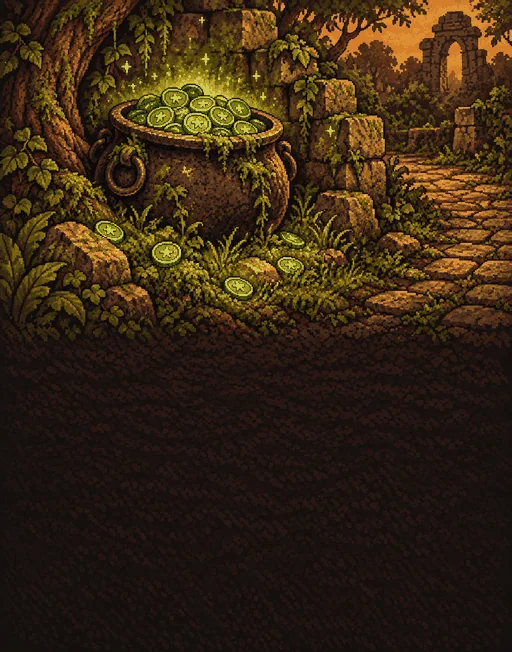
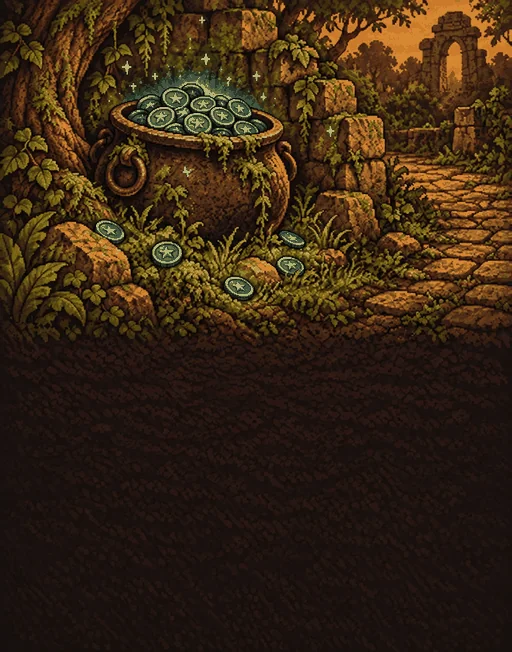
Refine daily visit sprites and match jade coin artwork

diff --git a/src/art_thumbs.js b/src/art_thumbs.js
@@ -87,7 +87,7 @@ const ART_THUMBS = {
[8 lines of base64/hex data omitted]
@@ -183,7 +183,7 @@ const ART_TONES = {
   trap_free: '#a4581d',
   trap_jaw: '#915122',
   visit_bike: '#6c4b30',
-  visit_gold: '#573d18',
+  visit_gold: '#543a19',
   visit_wagon: '#6c4f33',
   wizard_cold: '#4f3a5a',
   wizard_dragon: '#4d3552',
@@ -618,9 +618,9 @@ const ART_CUTS = {
[1 lines of base64/hex data omitted]
   ],
   visit_gold: [
[6 lines of base64/hex data omitted]
   ],
   visit_wagon: [
[1 lines of base64/hex data omitted]

diff --git a/src/render.js b/src/render.js
@@ -4270,12 +4270,10 @@ Render.objectAppearance = function (scene, houseRoles) {
   // generated props, a touch bigger than the crate they stand in for.
   const SMALL_POI_SCALE = 1.3;
   // The broken WAGON an old-trade-road bus stop wears (loot.js chestLook): the
-  // 128×96 frame's art is 88 px wide (x 20..108) and ends 2 px above the frame
-  // bottom, so 0.55 draws it ~1.5 cells wide, and WAGON_DY_PX drops the
-  // foot-anchored frame so the art's bottom row sits 1 px above the POI cell's
-  // bottom edge (half a cell, less that pixel, plus the 2 blank rows scaled).
-  const WAGON_SCALE = 0.55;
-  const WAGON_DY_PX = CELL_PX * 0.5 - 1 + 2 * WAGON_SCALE;
+  // compact 32×32 frame fits within a 2×2-cell footprint at the usual prop
+  // scale. Its one blank bottom row seats the wheels above the anchor edge.
+  const WAGON_SCALE = 1.6;
+  const WAGON_DY_PX = CELL_PX * 0.5 - 1 + WAGON_SCALE;
   // Render-spec callbacks receive the world object, while the object walk
   // carries the role on its frame item. This map bridges those APIs without
   // resolving the role again; Houses.displayRole owns the verdict.
@@ -4512,13 +4510,12 @@ Render.objectAppearance = function (scene, houseRoles) {
               // Pots of gold (ATMs) render the procedural
               // 'potofgold' canvas texture (textures.js makePotOfGoldTexture),
               // which is single-frame — so leave `frame` undefined for them,
-              // exactly like the themed-house sprites. The pot art is already
-              // gold, so no tint is applied. Produce stands pick the market_stand
+              // exactly like the themed-house sprites. The pot art already carries the jade coin palette, so no tint is applied. Produce stands pick the market_stand
               // awning frame for their product family (see produceStandFor).
               // A macro stall (loot.js macroFor) is one 80×80 frame per kind.
               frame: (o) => { const L = chestLook(o);
                               return L.coin ? undefined : (L.stand ? L.stand.frame : 0); },
-              // THE WAGON (a bus stop on an old trade road): 128×96 art, drawn at
+              // THE WAGON (a bus stop on an old trade road): 32×32 art, drawn at
               // WAGON_SCALE (~1.5 cells wide) and foot-anchored like the stall —
               // a structure, not a chest, so it is not seated; its wheels sit
               // on the POI cell's bottom edge and the body rises north over it.
@@ -4709,8 +4706,8 @@ Render.objectAppearance = function (scene, houseRoles) {
     infoboard: { key: 'signpost', frame: 0, origin: [0.5, 0.5], scale: 1.6, seat: true, shadow: true },
     gatepost:  { key: 'gatepost', frame: 0, origin: [0.5, 0.5], scale: 1.6, seat: true, shadow: true },
     // INFLUENCE ZONE PROPS (src/zones.js). Headstones may raise a ghost or
-    // pay a one-off find. Grove shrines use two stable, cell-seated appearances;
-    // both give the same daily gift and light (Lighting.KINDS.shrine).
+    // pay a one-off find. Plain grove shrines use the cell-seated votive,
+    // giving the daily gift and light (Lighting.KINDS.shrine).
     headstone:    { key: 'headstone',    frame: 0, origin: [0.5, 0.5], scale: 1.6, seat: true, shadow: true },
     grove_shrine: {
       key: o => SpriteLayout.groveShrineArt(o).key,

diff --git a/src/assets.js b/src/assets.js
@@ -147,17 +147,16 @@ const ASSETS = {
   // assets/Objects/Generated/README.md — placeholders): the pilgrim's
   // waystone, the barricade, and the burned row's tar pit and iron stakes
   // (one look each). wagon: the broken wagon a bandit-road bus stop wears
-  // (loot.js chestLook), one 128×96 frame.
+  // (loot.js chestLook), one compact 32×32 frame.
   waystone:       { kind: 'spritesheet', path: 'assets/Objects/Approved/waystone.png', frameWidth: 16, frameHeight: 16 },
   giant_mushroom: { kind: 'spritesheet', path: 'assets/Objects/Wilderness/Fantasy Mushroom.png', frameWidth: 32, frameHeight: 48 },
   barricade:      { kind: 'spritesheet', path: 'assets/Objects/Approved/barricade.png', frameWidth: 16, frameHeight: 16 },
   tar:            { kind: 'spritesheet', path: 'assets/Objects/Approved/tar.png', frameWidth: 16, frameHeight: 16 },
   stakes:         { kind: 'spritesheet', path: 'assets/Objects/Approved/stakes.png', frameWidth: 16, frameHeight: 16 },
-  wagon:          { kind: 'spritesheet', path: 'assets/Objects/Approved/wagon.png', frameWidth: 128, frameHeight: 96 },
-  // INFLUENCE ZONES (src/zones.js): churchyard headstone, two grove shrine
-  // appearances, and the flint nodule (items.js CROP_SPRITE.flint).
+  wagon:          { kind: 'spritesheet', path: 'assets/Objects/DailyVisits/wagon.png', frameWidth: 32, frameHeight: 32 },
+  // INFLUENCE ZONES (src/zones.js): churchyard headstone, grove votive,
+  // and the flint nodule (items.js CROP_SPRITE.flint).
   headstone:      { kind: 'spritesheet', path: 'assets/Objects/Rustic/pillar_c.png', frameWidth: 16, frameHeight: 16 },
-  grove_shrine:   { kind: 'spritesheet', path: 'assets/Objects/Landmarks/shrine-figure.png', frameWidth: 48, frameHeight: 48 },
   grove_votive:   { kind: 'spritesheet', path: 'assets/Objects/Approved/grove_votive.png', frameWidth: 16, frameHeight: 16 },
   flint:          { kind: 'spritesheet', path: 'assets/Objects/Approved/flint.png', frameWidth: 16, frameHeight: 16 },
   // SHRINE KINDS (src/shrines.js SHRINE_KINDS `frame`) — ten 16×24 generated
@@ -314,7 +313,7 @@ const ASSETS = {
   approved_clipped_hedge: {"kind": "spritesheet", "path": "assets/Objects/Approved/approved_clipped_hedge.png", "frameWidth": 16, "frameHeight": 16},
   approved_mushroom_cluster: {"kind": "spritesheet", "path": "assets/Objects/Approved/approved_mushroom_cluster.png", "frameWidth": 16, "frameHeight": 16},
   approved_charred_stakes: {"kind": "spritesheet", "path": "assets/Objects/Approved/approved_charred_stakes.png", "frameWidth": 16, "frameHeight": 16},
-  potofgold: {"kind": "image", "path": "assets/Objects/Approved/potofgold.png"},
+  potofgold: {"kind": "image", "path": "assets/Objects/DailyVisits/potofgold.png"},
   // END approved map-art states and contexts
 };
 

diff --git a/tools/gen_story_art.js b/tools/gen_story_art.js
@@ -121,7 +121,7 @@ const PIECES = {
   shrine_grove: scene("A small ancient moss-covered stone sanctuary beneath mature forest trees, with a weathered carved stone votive figure and a humble wrapped gift at its feet. Soft green sacred light, ferns and fallen leaves, fifty years of wild regrowth. Peaceful and respectful, no demons or horns."),
   visit_wagon: scene("A medieval hired guard in worn steel armour and a closed helmet concealing the entire face stands beside a weathered covered wooden wagon and a warm lantern. The guard rests a hand on a sheathed sword, ready to accompany a traveller. Wild grass, ruined medieval buildings, intact old trade road. No player, no visible faces."),
   visit_bike: scene("A saddled chestnut horse waits at a weathered courier's hitching post beside an intact cobbled trade road, small blue courier pennant and warm lantern, ruined medieval buildings and wild vegetation behind. No rider or people, no bicycle. A faint blue magical gleam suggests swift borrowed travel."),
-  visit_gold: scene("An old black iron pot filled with jade-green coins bearing small star marks, in a mossy nook beside an intact cobbled path. A handful of green star coins glimmers in the surrounding grass. The pot emits warm green-gold magical light. Absolutely no yellow or gold-colored coins despite the traditional pot-of-gold name."),
+  visit_gold: scene("An old black iron pot filled with muted cool teal-jade metal coins bearing embossed five-point stars, matching assets/Icons/coin.png exactly, never lime or yellow-green, in a mossy nook beside an intact cobbled path. A handful of green star coins glimmers in the surrounding grass. The coins give a restrained pale cool teal glimmer. Absolutely no yellow or gold-colored coins despite the traditional pot-of-gold name."),
 
   trap_jaw:
     scene(

diff --git a/index.html b/index.html
@@ -2687,7 +2687,7 @@
   <script src="src/shrines.js?v=5f2eca06"></script>
   <script src="src/zone_coverage.js?v=9f3ade7f"></script>
   <script src="src/zone_dressing.js?v=4f7cadec"></script>
-  <script src="src/sprite_layout.js?v=056e6ee4"></script>
+  <script src="src/sprite_layout.js?v=b61268cf"></script>
   <script src="src/placed_floor.js?v=d6c42e37"></script>
   <script src="src/home.js?v=e3fcba80"></script>
   <script src="src/coords.js?v=74ae36ba"></script>
@@ -2729,15 +2729,15 @@
   <script src="src/interact.js?v=f4be0d7c"></script>
   <script src="src/play_tips.js?v=2ef96f59"></script>
   <script src="src/lighting.js?v=d19f023c"></script>
-  <script src="src/render.js?v=4b6a81de"></script>
+  <script src="src/render.js?v=226703e0"></script>
   <script src="src/multiplayer.js?v=04fb3ba8"></script>
   <script src="src/road_overlay.js?v=990bf881"></script>
   <script src="src/building_overlay.js?v=18003bd2"></script>
-  <script src="src/assets.js?v=1123821d"></script>
+  <script src="src/assets.js?v=81fe352f"></script>
   <script src="src/sandbox.js?v=22f902e4"></script>
   <script src="src/testtools.js?v=e112a59e"></script>
   <script src="src/geo.js?v=0a205c42"></script>
-  <script src="src/art_thumbs.js?v=bdeb2a6f"></script>
+  <script src="src/art_thumbs.js?v=a8210cf6"></script>
   <script src="src/modal_shell.js?v=d6f9fe01"></script>
   <script src="src/scene_geo.js?v=96439ff3"></script>
   <script src="src/npc.js?v=5a25f4f1"></script>

diff --git a/src/sprite_layout.js b/src/sprite_layout.js
@@ -77,7 +77,6 @@
     'stakes:0': { fw: 16, fh: 16, minX: 4, minY: 0, maxX: 12, maxY: 16 },
     'tar:0': { fw: 16, fh: 16, minX: 0, minY: 6, maxX: 16, maxY: 16 },
     'headstone:0': { fw: 16, fh: 16, minX: 3, minY: 0, maxX: 14, maxY: 16 },
-    'grove_shrine:0': { fw: 48, fh: 48, minX: 12, minY: 1, maxX: 37, maxY: 47 },
     'grove_votive:0': { fw: 16, fh: 16, minX: 1, minY: 0, maxX: 15, maxY: 16 },
     'vista_scope:0': { fw: 16, fh: 24, minX: 0, minY: 0, maxX: 15, maxY: 24 },
     'shrines:0': { fw: 16, fh: 24, minX: 2, minY: 0, maxX: 14, maxY: 24 },
@@ -104,7 +103,6 @@
 
   // Cosmetic only: each POI keeps its appearance across reloads and save overlays.
   const GROVE_SHRINE_ART = [
-    { key: 'grove_shrine', frame: 0, scale: 0.7, name: 'Stone figure' },
     { key: 'grove_votive', frame: 0, scale: 1.6, name: 'Stone votive' },
   ];
   // One centered shrine object, reserving a 3×3-cell footprint.

diff --git a/sw.js b/sw.js
@@ -9,7 +9,7 @@
 //      so they're safe to cache forever. Strategy: cache-first with network
 //      fallback. This makes a visited region playable offline.
 
-const SHELL_VERSION = 'shell-ce147c3a';
+const SHELL_VERSION = 'shell-cbf20463';
 const TILE_CACHE    = 'tiles-v1';
 // How old a cached tile may get before it is refreshed IN THE BACKGROUND. It
 // is never an expiry: a stale tile is still served, and a failed refresh keeps

diff --git a/test/node/grove_shrine_art.test.js b/test/node/grove_shrine_art.test.js
@@ -8,5 +8,6 @@ test('grove shrine appearance is stable across save overlays and coordinate fram
     assert.truthy(SpriteLayout.ART_BOUNDS[`${art.key}:${art.frame}`]);
   }
   assert.eq(seen.size, SpriteLayout.GROVE_SHRINE_ART.length);
-  assert.eq(seen.size, 2);
+  assert.eq(seen.size, 1);
+  assert.truthy(seen.has('grove_votive'));
 });

diff --git a/tools/preview_landmark_candidates.py b/tools/preview_landmark_candidates.py
@@ -36,16 +36,16 @@ CANDIDATES = [
          note='A second complete skull-marker sprite from the row below. Suitable as an alternative look, not a clipped neighbour.', provenance='fantasy'),
     dict(id='shrine-current', group='Grove shrines', title='Previous · moss shrine', current=True, previous=True,
          path='assets/Objects/Generated/shrine.png', rect=(0, 0, 16, 24),
-         note='The previous generated green-flame placeholder. It has been replaced by the approved stone figure and green votive shrine variants.', provenance='generated'),
+         note='The previous generated green-flame placeholder. It has been replaced by the approved green votive shrine.', provenance='generated'),
     dict(id='shrine-niche', group='Grove shrines', title='Arched stone niche · unused',
          path=FANTASY, rect=(136, 264, 16, 24),
-         note='An unused alternative retained for comparison. The stone figure and green votive were selected instead.', provenance='fantasy'),
-    dict(id='shrine-statue', group='Grove shrines', title='Current · stone figure', current=True, approved=True, render_scale=0.7,
+         note='An unused alternative retained for comparison. The green votive was selected instead.', provenance='fantasy'),
+    dict(id='shrine-statue', group='Grove shrines', title='Retired · stone figure', previous=True, render_scale=0.7,
          path='assets/Objects/Landmarks/shrine-figure.png', rect=(0, 0, 48, 48),
-         note='Approved and used for grove shrines. The 48 × 48 frame renders at 0.7×. Copied from Royal City tile-B-03.png, rectangle (192, 240, 48, 48), source frame 84.', provenance='royal'),
+         note='Retired from grove shrine usage; the stone votive is now used. The 48 × 48 frame renders at 0.7×. Copied from Royal City tile-B-03.png, rectangle (192, 240, 48, 48), source frame 84.', provenance='royal'),
     dict(id='shrine-votive', group='Grove shrines', title='Current · green stone votive', current=True, approved=True, render_scale=1.6,
          path='assets/Objects/Landmarks/shrine-votive.png', rect=(0, 0, 16, 16),
-         note='Approved and used for grove shrines. The 16 × 16 frame renders at 1.6×. Copied from Fantasy City Above.png, rectangle (112, 256, 16, 16).' , provenance='fantasy'),
+         note='Retired from grove shrine usage; the stone votive is now used. The 16 × 16 frame renders at 1.6×. Copied from Fantasy City Above.png, rectangle (112, 256, 16, 16).' , provenance='fantasy'),
 
 ]
 
@@ -152,7 +152,7 @@ def render(reserve, out):
             contact.append((row, image))
     styles = '''*{box-sizing:border-box}body{margin:32px auto;padding:0 24px;max-width:1380px;background:#101a15;color:#e5ecdf;font:16px system-ui}h1{font-size:34px}p{line-height:1.6}a{color:#95d7d1}nav{display:flex;flex-wrap:wrap;gap:20px}.cards{display:grid;grid-template-columns:repeat(auto-fit,minmax(min(100%,300px),1fr));gap:18px}article{padding:20px;border:1px solid #334a3a;border-radius:12px;background:#1b2a21}article h3{margin-top:7px}small{font-size:11px;color:#b4c6b4}article:has(>small:first-child){min-width:0}.comparison{display:grid;grid-template-columns:1fr 88px;gap:8px;height:210px;align-items:end;background:#14241b;border-radius:6px;padding:8px}.large{height:194px;display:flex;align-items:center;justify-content:center}.large img{max-width:100%;object-fit:contain}.map-size{height:72px;display:flex;align-items:center;justify-content:center;flex-direction:column;gap:8px}img{image-rendering:pixelated;object-fit:contain}.map-size img{object-fit:contain}details{font-size:12px;color:#b4c6b4}summary{cursor:pointer}code{display:block;margin-top:12px;overflow-wrap:anywhere}section{margin-top:34px;scroll-margin-top:16px}.intro{max-width:1000px}.note{border-left:3px solid #79a956;padding-left:16px}'''
     page = f'''<!doctype html><html lang="en"><head><meta charset="utf-8"><meta name="viewport" content="width=device-width"><title>Grave and shrine art · existing candidates</title><style>{styles}</style></head><body>
-<h1>Grave and shrine art already available</h1><div class="intro"><p>The <a href="#shrine-statue">stone figure</a> and <a href="#shrine-votive">green votive</a> are the approved current grove shrine art. The previous moss placeholder and unused niche remain below for reference. The low basalt column is the approved current headstone; other grave markers remain for comparison.</p><p class="note">Grove shrine and headstone art have been updated to the approved choices. These are existing local assets, not newly generated art. Large images show source pixels enlarged up to 4×. The approved sprites’ small views show their runtime render scales; other small views are silhouette comparisons.</p><p>The ignored <code style="display:inline">unused_art</code> directory is in the primary checkout, <code style="display:inline">/home/claude/terracart</code>; it is absent from the two worktrees searched. Full source paths, crop coordinates and local provenance notes are inside each card. The existing texture called “shrine” is a different asset: assets/Objects/Houses/wizard.png, frame 3, used for wizard houses; the grove POI is grove_shrine.</p></div>
+<h1>Grave and shrine art already available</h1><div class="intro"><p>The <a href="#shrine-votive">green votive</a> is the current grove shrine art. The oversized stone figure is retired. The previous moss placeholder and unused niche remain below for reference. The low basalt column is the approved current headstone; other grave markers remain for comparison.</p><p class="note">Grove shrine and headstone art have been updated to the approved choices. These are existing local assets, not newly generated art. Large images show source pixels enlarged up to 4×. The approved sprites’ small views show their runtime render scales; other small views are silhouette comparisons.</p><p>The ignored <code style="display:inline">unused_art</code> directory is in the primary checkout, <code style="display:inline">/home/claude/terracart</code>; it is absent from the two worktrees searched. Full source paths, crop coordinates and local provenance notes are inside each card. The existing texture called “shrine” is a different asset: assets/Objects/Houses/wizard.png, frame 3, used for wizard houses; the grove POI is grove_shrine.</p></div>
 <nav><a href="#grave-markers">Graves</a><a href="#grove-shrines">Grove shrines</a><a href="index.html">Zone preview</a><a href="grave-shrine-contact.png">Compact contact sheet</a></nav>'''
     for group, cards in sections.items():
         anchor = {'Grave markers':'grave-markers', 'Grove shrines':'grove-shrines', 'Related art · different roles':'related-art'}[group]

diff --git a/assets/Objects/DailyVisits/README.md b/assets/Objects/DailyVisits/README.md
@@ -1,0 +1,14 @@
+# Daily visit sprites
+
+These sprites replace the older map-audit exports without changing that
+exporter's source recipes.
+
+- `wagon.png`: regenerated compact covered wagon, 32 × 32 pixels. The runtime
+  scale keeps it within a 2 × 2-cell footprint.
+- `potofgold.png`: 24 × 24 pixels. Coins match the muted teal-jade metal and
+  embossed star of `assets/Icons/coin.png`.
+
+Generated with the built-in image tool. Transparent masters are preserved in
+the shared `idol-review/masters` artifact directory. Runtime exports are
+cropped to the opaque silhouette, fitted inside a one-pixel transparent border,
+and reduced to 48 colours. The original approved exports remain as references.
